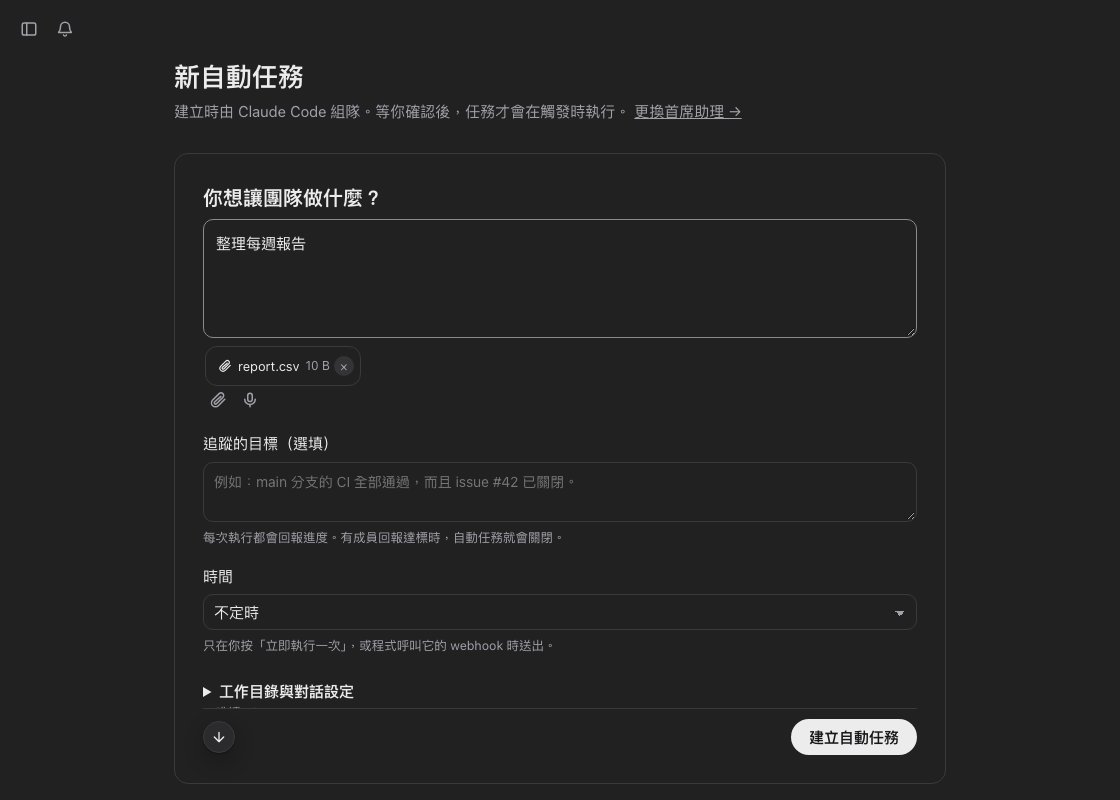
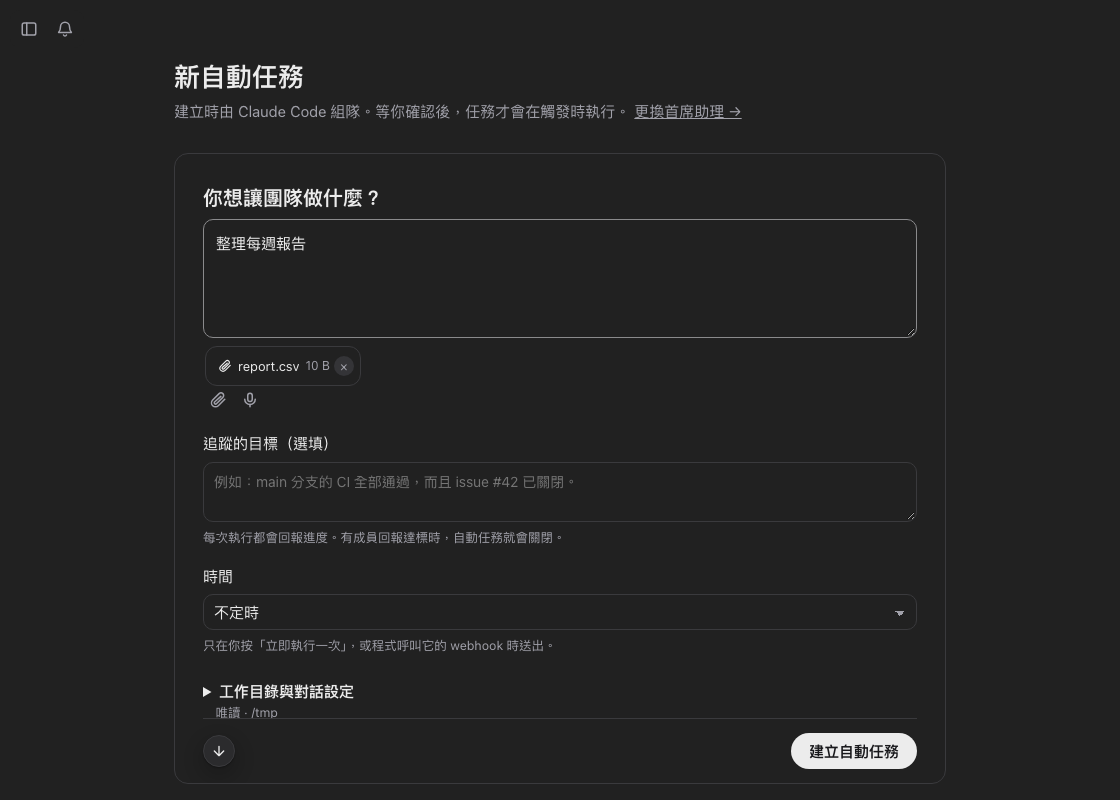
Center the controls in both creation card footers
- Give the submit button and scroll arrow equal space above and below in the footer.
- Hide the hint once the last field is visible, even if blank padding can still scroll.
- Measure both layouts in browser tests and refresh the desktop and phone screenshots.

Changed region(s): [[0.6875, 0.875, 0.8438, 0.9688], [0.1875, 0.875, 0.25, 0.9062]]

diff --git a/e2e/specs/home.spec.ts b/e2e/specs/home.spec.ts
@@ -114,12 +114,22 @@ test.describe('the home page', () => {
       await page.getByRole('button', { name, exact: true }).first().click();
       const pane = page.locator('.new-chat-body');
       const footer = page.locator('.creation-footer');
+      const expectCenteredButtons = async () => {
+        const row = (await footer.boundingBox())!;
+        for (const button of await footer.getByRole('button').all()) {
+          const box = (await button.boundingBox())!;
+          const above = box.y - row.y - 1; // Measure from the inside edge of the divider.
+          const below = row.y + row.height - box.y - box.height;
+          expect(Math.abs(above - below)).toBeLessThanOrEqual(1);
+        }
+      };
       const hint = page.getByRole('button', { name: 'Scroll down to see more' });
       const submit = footer.getByRole('button', { name: automation ? 'Create automation' : 'Send question' });
       await expect(submit).toBeInViewport();
       await expect(pane.getByRole('radio', { name: 'Wait for my confirmation' })).toHaveCount(1);
       await expect(pane.getByRole('checkbox', { name: /review the team.s replies/i })).toHaveCount(1);
       await expect(hint).toHaveCount(0);
+      await expectCenteredButtons();
       const card = page.locator('.first-task');
       const short = (await card.boundingBox())!;
       expect(short.y + short.height).toBeLessThan(1400); // A short card ends before the viewport's bottom.
@@ -143,6 +153,7 @@ test.describe('the home page', () => {
       await expect(hint.locator('svg')).toHaveCSS('animation-name', 'creation-scroll-down');
       await page.emulateMedia({ reducedMotion: 'reduce' });
       await expect(hint.locator('svg')).toHaveCSS('animation-name', 'none');
+      await expectCenteredButtons();
       const pinned = await footer.boundingBox();
       const frame = (await card.boundingBox())!;
       expect(pinned!.y + pinned!.height).toBeCloseTo(frame.y + frame.height - 1, 0);
@@ -151,6 +162,9 @@ test.describe('the home page', () => {
       const heading = await page.locator('#creation-title').boundingBox();
       await hint.click();
       await expect.poll(() => pane.evaluate((el) => el.scrollTop)).toBeGreaterThan(0);
+      // Only the blank padding below the last field remains to scroll.
+      await pane.evaluate((el) => el.scrollTo(0, el.scrollHeight - el.clientHeight - 3));
+      await expect(hint).toHaveCount(0);
       await pane.evaluate((el) => el.scrollTo(0, el.scrollHeight));
       await expect(hint).toHaveCount(0);
       await expect(pane.getByRole('checkbox', { name: /review the team.s replies/i })).toBeInViewport();

diff --git a/src/web/components/CreationPage.tsx b/src/web/components/CreationPage.tsx
@@ -34,11 +34,16 @@ export function CreationPage({
 
   useLayoutEffect(() => {
     const pane = scroll.current!;
-    const measure = () => setMore(pane.scrollHeight - pane.clientHeight - pane.scrollTop > 1);
+    const fields = content.current!;
+    const measure = () => {
+      // Once the last field fits, only the card's bottom padding can remain out of view.
+      const last = fields.lastElementChild;
+      setMore(Boolean(last && last.getBoundingClientRect().bottom > pane.getBoundingClientRect().bottom + 1));
+    };
     measure();
     const observer = new ResizeObserver(measure);
     observer.observe(pane);
-    observer.observe(content.current!);
+    observer.observe(fields);
     pane.addEventListener('scroll', measure, { passive: true });
     return () => {
       observer.disconnect();

diff --git a/src/web/styles.css b/src/web/styles.css
@@ -2534,7 +2534,6 @@ details.sub .model-picker {
   flex: none;
   justify-content: flex-end;
   margin-inline: var(--task-pad);
-  padding: 10px 0 var(--task-pad);
 }
 .creation-scroll-hint {
   margin-inline-end: auto;
@@ -2568,10 +2567,6 @@ details.sub .model-picker {
 }
 .creation-team-options .lead-review {
   margin: 0;
-}
-.first-task-actions > .primary {
-  margin-inline-start: auto;
-  align-self: flex-end;
 }
 .team-confirmation {
   border: 0;

diff --git a/e2e/README.md b/e2e/README.md
@@ -101,7 +101,7 @@ In the tables below, the CLI column says which CLIs a test runs with: **each** m
 
 | Scenario | What is checked |
 | --- | --- |
-| New chat and New automation keep their actions visible (2 scenarios) | The submit button stays at the card’s bottom. The team choices and lead review scroll with the fields. Short cards fit their contents. A long description scrolls inside its text box. The form scrolls independently. Its arrow scrolls the form, disappears at the bottom or when the form fits, and stays still with reduced motion. |
+| New chat and New automation keep their actions visible (2 scenarios) | The submit button stays at the card’s bottom. The controls have equal space above and below, with and without the scroll arrow. The team choices and lead review scroll with the fields. Short cards fit their contents. A long description scrolls inside its text box. The form scrolls independently. Its arrow scrolls the form, disappears when the last field is visible, even with a little blank padding still below, and stays still with reduced motion. |
 | Start a question from the collapsed home page | An empty, whitespace-only or cleared question keeps Send question disabled, even with a file attached. The question, file, title, folders, permission and team confirmation survive a visit to lead settings. Sending posts one message with the file, the home page links to the waiting team, and the next chat shows the saved confirmation preference. |
 | A slow creation from New chat or New automation (one scenario per form) | A rejected request keeps the draft, its visible lead review choice and error across Settings. A successful retry leaves Settings in front. At phone width the link there opens the created item, including the automation’s one-time webhook token. |
 | The app opens on it, and the logo and name lead back to it | The home page shows the logo and its tagline; the sidebar's logo and **Harness Relay** (marked as the current page there) go back to it from the New chat page and from a chat (`#/`). |
